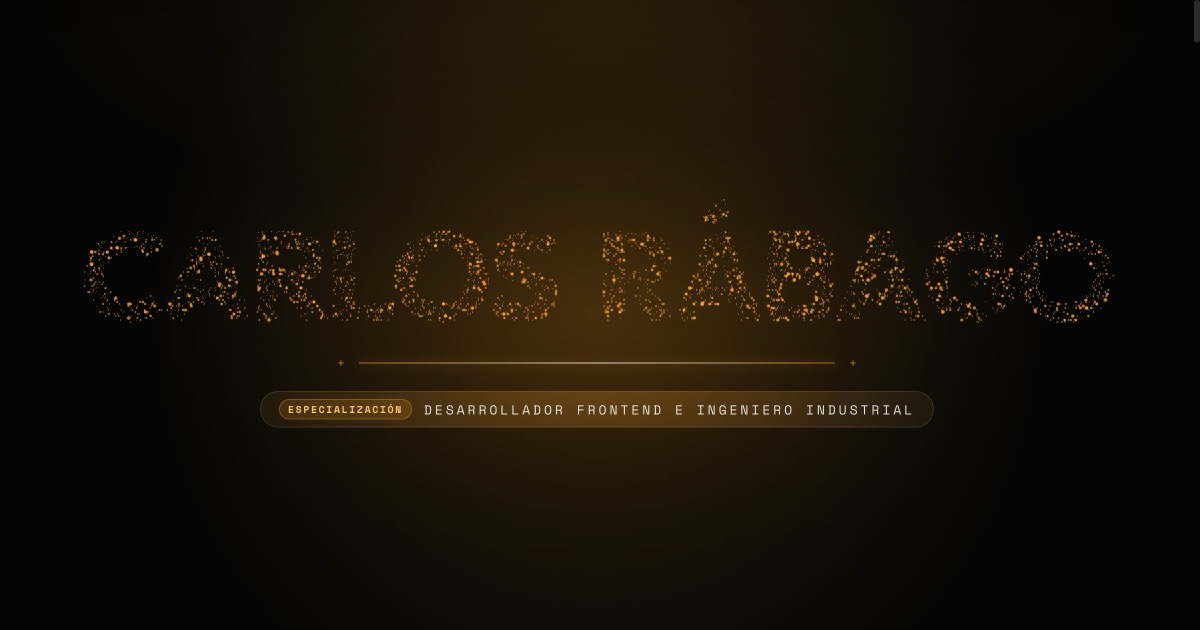
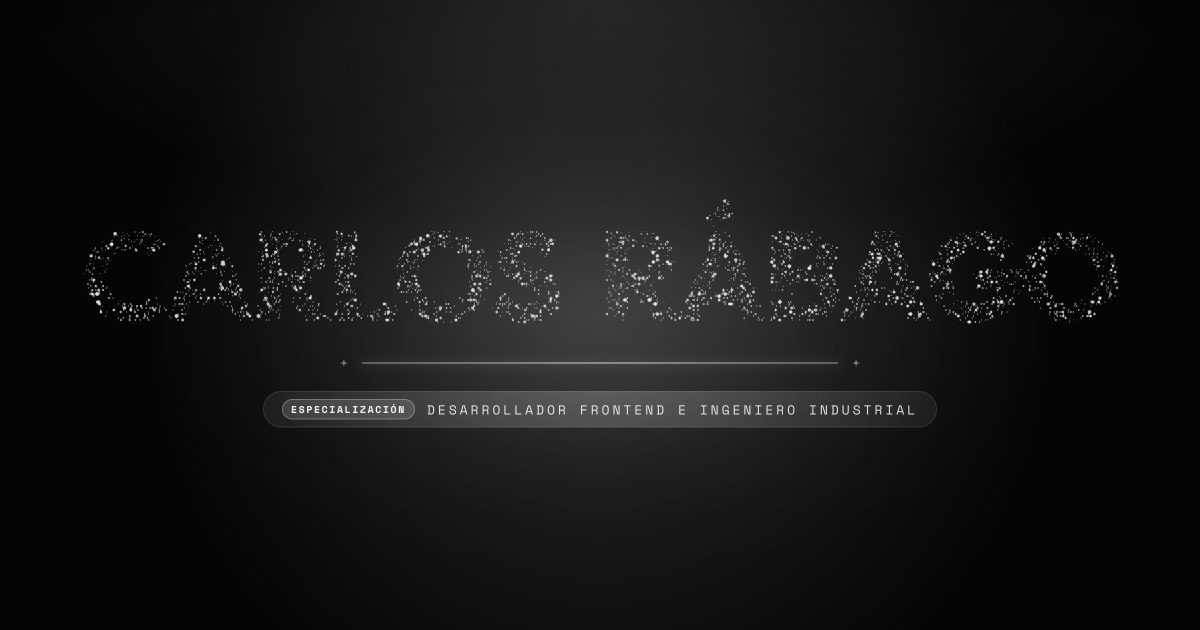
feat: update color palette and enhance title gradient; improve visual consistency across components

Changed region(s): [[0.0617, 0.0, 0.925, 0.754], [0.9867, 0.0, 1.0, 0.0603]]

diff --git a/src/styles/palettes.css b/src/styles/palettes.css
@@ -7,7 +7,7 @@
 
        <html lang="es" data-palette="cyan">
 
-   Sin atributo se usa la primera (oro), que es la activa.
+   Sin atributo se usa la primera (oro). La activa es la de index.html.
 
    Tokens de cada paleta:
      --accent        color principal: bordes, barras, rellenos sólidos
@@ -19,7 +19,16 @@
 
    Los tres últimos se derivan del principal; si añades una paleta nueva
    mantén el mismo juego de seis tokens.
+
+   Opcional:
+     --title-gradient  relleno de la segunda línea del título del hero.
+                       Por defecto, un degradado del propio acento; una
+                       paleta puede sustituirlo (ver Monocromo).
    ═══════════════════════════════════════════════════════════ */
+
+:root {
+    --title-gradient: linear-gradient(100deg, var(--accent-soft) 0%, var(--accent) 45%, var(--accent-light) 100%);
+}
 
 /* Oro Editorial */
 :root,
@@ -90,4 +99,57 @@
     --accent-dim: #043022;
     --accent-ink: #050505;
     --accent-rgb: 0 200 138;
+}
+
+/* Azul Eléctrico */
+:root[data-palette="blue"] {
+    --accent: #4D7CFF;
+    --accent-soft: #93B2FF;
+    --accent-light: #B8CCFF;
+    --accent-dim: #0E1A3A;
+    --accent-ink: #050505;
+    --accent-rgb: 77 124 255;
+}
+
+/* Lima Ácida */
+:root[data-palette="acid"] {
+    --accent: #D2FF3A;
+    --accent-soft: #E4FF8A;
+    --accent-light: #EEFFB0;
+    --accent-dim: #2A330B;
+    --accent-ink: #050505;
+    --accent-rgb: 210 255 58;
+}
+
+/* Iris */
+:root[data-palette="iris"] {
+    --accent: #8C7BFF;
+    --accent-soft: #B9AEFF;
+    --accent-light: #CFC7FF;
+    --accent-dim: #1D1740;
+    --accent-ink: #050505;
+    --accent-rgb: 140 123 255;
+}
+
+/* Monocromo
+   Sin color de acento: la jerarquía sale del tono y de la textura. El título
+   se rellena con un cromado (grises que suben a blanco) cuyo brillo recorre
+   la palabra despacio, y el verde de "disponible" queda como la única señal
+   de color de todo el sitio. El gris más oscuro del cromado mantiene 6:1
+   sobre el fondo. */
+:root[data-palette="mono"] {
+    --accent: #E6E6E6;
+    --accent-soft: #F4F4F4;
+    --accent-light: #FFFFFF;
+    --accent-dim: #262626;
+    --accent-ink: #050505;
+    --accent-rgb: 230 230 230;
+    --title-gradient: linear-gradient(
+        100deg,
+        #8C8C8C 0%,
+        #FFFFFF 28%,
+        #A8A8A8 52%,
+        #F2F2F2 76%,
+        #8C8C8C 100%
+    );
 }

diff --git a/src/components/ScrollField.jsx b/src/components/ScrollField.jsx
@@ -382,8 +382,8 @@ const fragmentShader = /* glsl */ `
         if (r > 0.5) discard;
         float soft = smoothstep(0.5, 0.38, r);
         vec3 color = mix(uColorDim, uColor, vIntensity);
-        // The sweep runs the accent up to a warm white.
-        color = mix(color, vec3(1.0, 0.94, 0.82), vSweep * 0.85);
+        // The sweep runs the accent up to white, tinted by the accent.
+        color = mix(color, mix(vec3(1.0), uColor, 0.2), vSweep * 0.85);
         gl_FragColor = vec4(color, vAlpha * soft * mix(0.55, 1.0, vIntensity) * uOpacity);
         // THREE.Color stores the palette in linear space; without converting
         // back the amber accent renders as a darker red-orange.
@@ -473,9 +473,10 @@ function Field({ count, pointSize, color, reduceMotion }) {
 
     const uniforms = useMemo(() => {
         const hot = new THREE.Color(color);
-        // Dim colour: the accent pulled most of the way to a warm grey, so the
-        // field away from the cursor stays visible without competing.
-        const dim = hot.clone().lerp(new THREE.Color('#5c574a'), 0.6);
+        // Dim colour: the accent pulled most of the way to a neutral grey, so the
+        // field away from the cursor stays visible without competing. Neutral,
+        // not warm, so it sits under any palette without turning muddy.
+        const dim = hot.clone().lerp(new THREE.Color('#58585c'), 0.6);
         return {
             uTo: { value: 0 },
             uTransition: { value: 1 },

diff --git a/src/sections/Hero.css b/src/sections/Hero.css
@@ -89,8 +89,9 @@
 
 .hero-title__line--accent .hero-title__inner {
     /* Lifted off --accent: at weight 300 the darker violet drops to ~3:1 on the
-       near-black ground, which reads as muddy on thin strokes. */
-    background: linear-gradient(100deg, var(--accent-soft) 0%, var(--accent) 45%, var(--accent-light) 100%);
+       near-black ground, which reads as muddy on thin strokes. Each palette
+       can replace it through --title-gradient (see palettes.css). */
+    background: var(--title-gradient);
     background-size: 200% 100%;
     -webkit-background-clip: text;
     background-clip: text;

diff --git a/src/components/Intro.css b/src/components/Intro.css
@@ -66,14 +66,14 @@
     pointer-events: none;
 }
 
-/* Big-bang flash: a hot white core bleeding into the accent. */
+/* Big-bang flash: a white-hot core, tinted by the accent, bleeding into it. */
 .intro__flash {
     position: absolute;
     inset: 0;
     z-index: 3;
     background: radial-gradient(
         circle at 50% 50%,
-        rgba(255, 244, 222, 0.95) 0%,
+        color-mix(in srgb, white 88%, rgb(var(--accent-rgb))) 0%,
         rgb(var(--accent-rgb) / 0.45) 18%,
         rgb(var(--accent-rgb) / 0.08) 45%,
         transparent 70%

diff --git a/index.html b/index.html
@@ -1,8 +1,9 @@
 <!doctype html>
 <!-- Cambia data-palette para cambiar el color de todo el sitio.
      Opciones: gold · violet · cyan · lime · amber · coral · emerald
+                blue · acid · iris · mono
      (definidas en src/styles/palettes.css) -->
-<html lang="es" data-palette="amber">
+<html lang="es" data-palette="mono">
   <head>
     <meta charset="UTF-8" />
     <link rel="icon" href="/favicon.ico" sizes="32x32" />

diff --git a/src/config/palette.js b/src/config/palette.js
@@ -15,10 +15,10 @@
  * Si cambias `data-palette` en index.html, actualiza también estos valores.
  */
 export const DEFAULT_PALETTE = {
-    accent: '#FF9F1C',
-    accentSoft: '#FFC266',
-    accentLight: '#FFC77B',
-    accentDim: '#3C270A',
+    accent: '#E6E6E6',
+    accentSoft: '#F4F4F4',
+    accentLight: '#FFFFFF',
+    accentDim: '#262626',
 };
 
 export function readPalette() {
